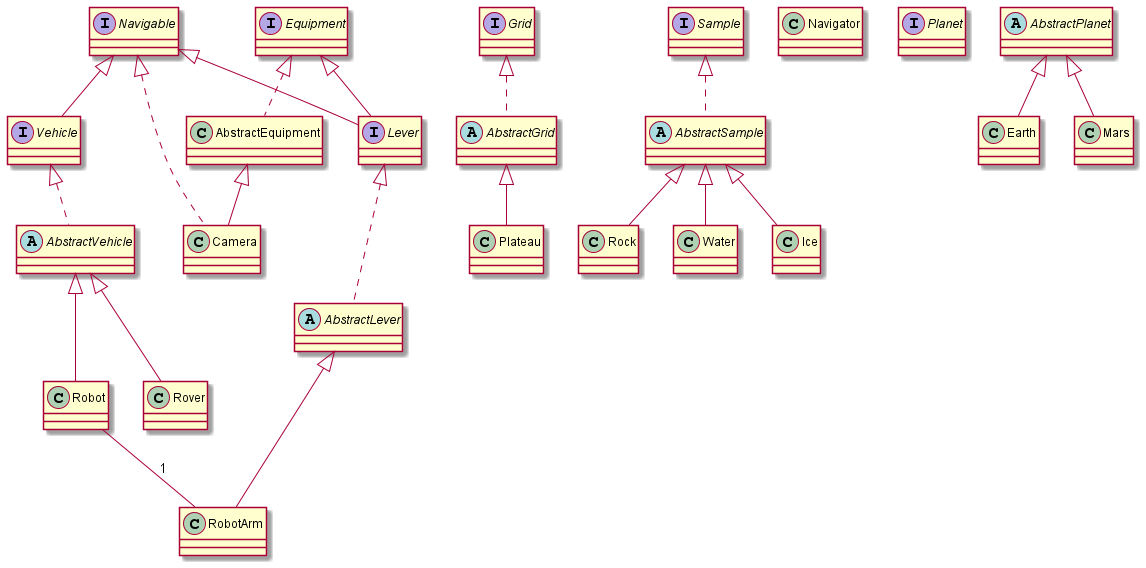
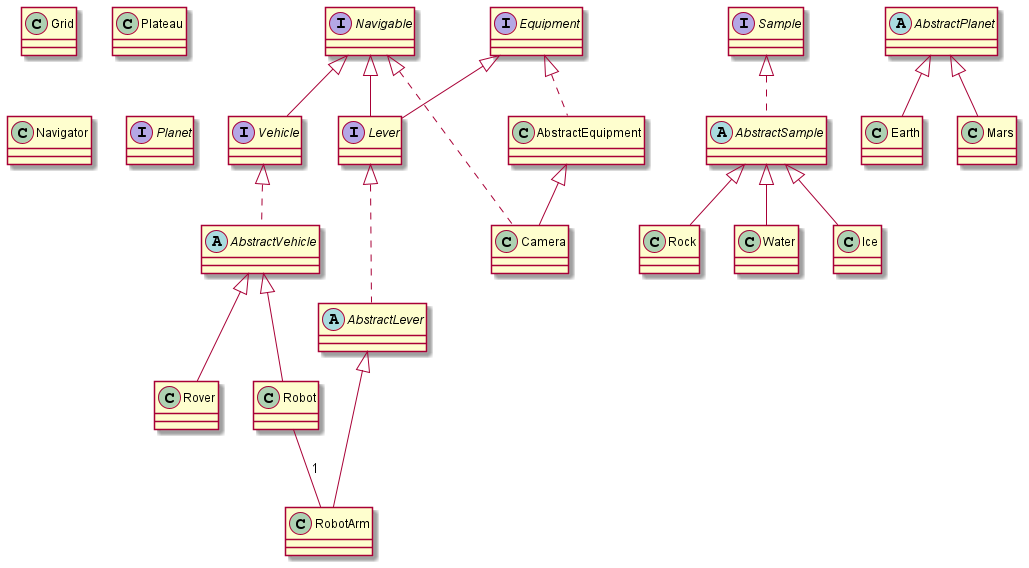
First Model of the System

diff --git a/src/main/java/com/shurel/marsrover/Navigator.java b/src/main/java/com/shurel/marsrover/Navigator.java
@@ -1,0 +1,57 @@
+package com.shurel.marsrover;
+/**
+ * @author Shurel Reynolds.
+ */
+
+import java.util.ArrayList;
+import java.util.List;
+
+public class Navigator {
+    /*
+     * Sets a maximum for the gridCount
+     * The user cannot create a plateau with a greater grid count
+     * */
+    public final static int MAX_GRID_COUNT = 20;
+
+    /*
+     * Sets a minimum for the gridCount
+     * The user cannot create a plateau with a smaller grid count
+     * */
+    public final static int MIN_GRID_COUNT = 5;
+
+    /*
+     * Stores a map of Navigable objects by Name
+     * */
+    private static List<Rover> roverList = new ArrayList<>();
+
+    /*
+     * Assigns one Rover to the navigable map
+     * */
+    static {
+        Rover rover = new Rover();
+        roverList.add(rover);
+    }
+
+    /*
+     * Defines the plateau where this navigator operates
+     * */
+    private final Plateau plateau;
+
+    /*
+     * Creates a new Navigator object with the given grid sizes.
+     * @param gridXSize sets the number of grids along the x-axis
+     * @param gridYSize sets the number of grids along the y-axis
+     * @exception NavigatorException if the grid size for x is too small
+     * @exception NavigatorException if the grid size for x is too large
+     * @exception NavigatorException if the grid size for y is too small
+     * @exception NavigatorException if the grid size for y is too large
+     * */
+    public Navigator(int gridXSize, int gridYSize) throws NavigatorException {
+        if (gridXSize > MAX_GRID_COUNT || gridYSize > MAX_GRID_COUNT)
+            throw new NavigatorException("Maximum Grid Size: " + MAX_GRID_COUNT);
+
+        if (gridXSize < MIN_GRID_COUNT || gridYSize < MIN_GRID_COUNT)
+            throw new NavigatorException("Minimum Grid Size: " + MIN_GRID_COUNT);
+         plateau = new Plateau(gridXSize, gridYSize);
+    }
+}

diff --git a/src/main/java/com/shurel/marsrover/Plateau.java b/src/main/java/com/shurel/marsrover/Plateau.java
@@ -1,0 +1,20 @@
+package com.shurel.marsrover;
+/**
+ * @author Shurel Reynolds.
+ */
+public class Plateau {
+    /*
+     * Sets the number of grids along the x-axis
+     * */
+    private final int gridXSize;
+    /*
+     * Sets the number of grids along the y-axis
+     * */
+    private final int gridYSize;
+
+
+    public Plateau(int gridXSize, int gridYSize) {
+        this.gridXSize = gridXSize;
+        this.gridYSize = gridYSize;
+    }
+}

diff --git a/src/main/java/com/shurel/marsrover/AbstractVehicle.java b/src/main/java/com/shurel/marsrover/AbstractVehicle.java
@@ -1,0 +1,11 @@
+package com.shurel.marsrover;
+/**
+ * @author Shurel Reynolds.
+ */
+public abstract class AbstractVehicle implements Vehicle {
+
+    public String getName(){
+        return this.getClass().getName();
+    }
+
+}

diff --git a/src/main/java/com/shurel/marsrover/AbstractSample.java b/src/main/java/com/shurel/marsrover/AbstractSample.java
@@ -1,0 +1,11 @@
+package com.shurel.marsrover;
+/**
+ * @author Shurel Reynolds.
+ */
+public abstract class AbstractSample implements Sample {
+
+    public String getName(){
+        return this.getClass().getName();
+    }
+
+}

diff --git a/src/main/java/com/shurel/marsrover/AbstractEquipment.java b/src/main/java/com/shurel/marsrover/AbstractEquipment.java
@@ -1,0 +1,12 @@
+package com.shurel.marsrover;
+/**
+ * @author Shurel Reynolds.
+ */
+public class AbstractEquipment implements Equipment {
+
+    public String getName(){
+        return this.getClass().getName();
+    }
+
+
+}

diff --git a/src/main/java/com/shurel/marsrover/AbstractPlanet.java b/src/main/java/com/shurel/marsrover/AbstractPlanet.java
@@ -1,0 +1,11 @@
+package com.shurel.marsrover;
+/**
+ * @author Shurel Reynolds.
+ */
+public abstract class AbstractPlanet implements Planet{
+
+    public String getName(){
+        return this.getClass().getName();
+    }
+
+}

diff --git a/src/main/java/com/shurel/marsrover/RobotArm.java b/src/main/java/com/shurel/marsrover/RobotArm.java
@@ -1,0 +1,11 @@
+package com.shurel.marsrover;
+/**
+ * @author Shurel Reynolds.
+ */
+public class RobotArm extends AbstractLever {
+
+    public String getName(){
+        return this.getClass().getName();
+    }
+
+}

diff --git a/src/main/java/com/shurel/marsrover/NavigatorException.java b/src/main/java/com/shurel/marsrover/NavigatorException.java
@@ -1,0 +1,9 @@
+package com.shurel.marsrover;
+/**
+ * @author Shurel Reynolds.
+ */
+public class NavigatorException extends Exception {
+    public NavigatorException(String msg) {
+        super(msg);
+    }
+}

diff --git a/src/main/java/com/shurel/marsrover/Camera.java b/src/main/java/com/shurel/marsrover/Camera.java
@@ -1,0 +1,6 @@
+package com.shurel.marsrover;
+/**
+ * @author Shurel Reynolds.
+ */
+public class Camera extends AbstractEquipment implements Navigable {
+}

diff --git a/src/main/java/com/shurel/marsrover/AbstractLever.java b/src/main/java/com/shurel/marsrover/AbstractLever.java
@@ -1,0 +1,8 @@
+package com.shurel.marsrover;
+/**
+ * @author Shurel Reynolds.
+ */
+public abstract class AbstractLever implements Lever {
+
+
+}

diff --git a/src/main/java/com/shurel/marsrover/Navigable.java b/src/main/java/com/shurel/marsrover/Navigable.java
@@ -1,0 +1,9 @@
+package com.shurel.marsrover;
+/**
+ * @author Shurel Reynolds.
+ */
+public interface Navigable{
+    String getName();
+}
+
+

diff --git a/src/main/java/com/shurel/marsrover/Lever.java b/src/main/java/com/shurel/marsrover/Lever.java
@@ -1,0 +1,6 @@
+package com.shurel.marsrover;
+/**
+ * @author Shurel Reynolds.
+ */
+public interface Lever extends Equipment, Navigable {
+}
